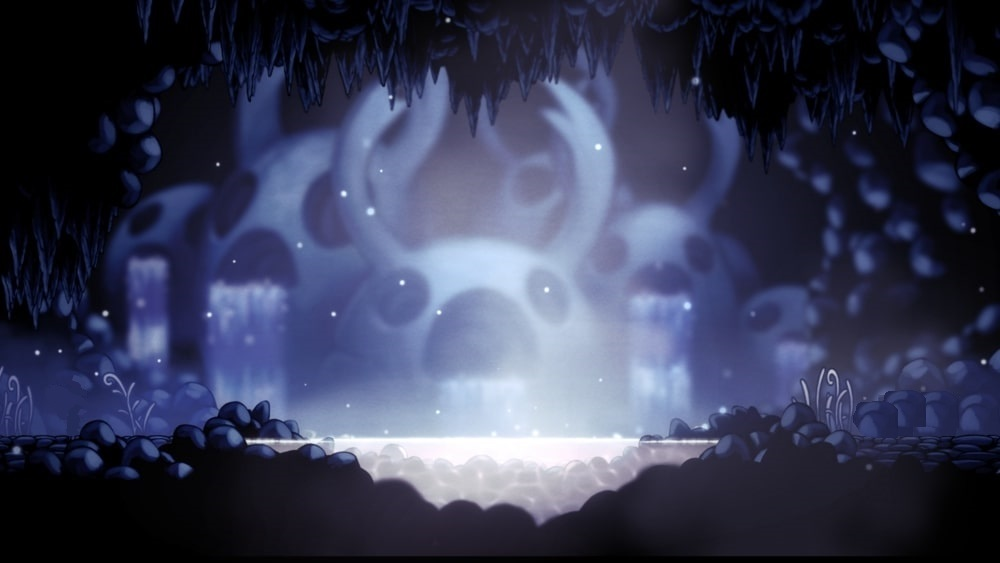
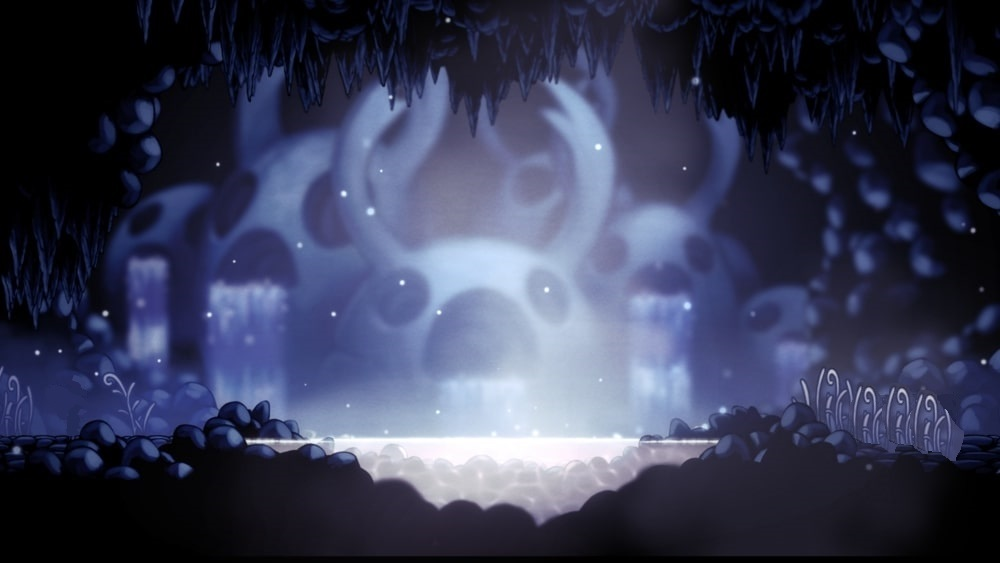
Fix width floor parallax

Changed region(s): [[0.837, 0.6945, 0.961, 0.8153]]

diff --git a/Entrega 4/css/release.css b/Entrega 4/css/release.css
@@ -90,7 +90,7 @@ header nav a:hover {
 #floor-img {
     position: absolute;
     top: 625px;
-    width: 1920px;
+    width: 1900px;
     z-index: 1;
 }
 
